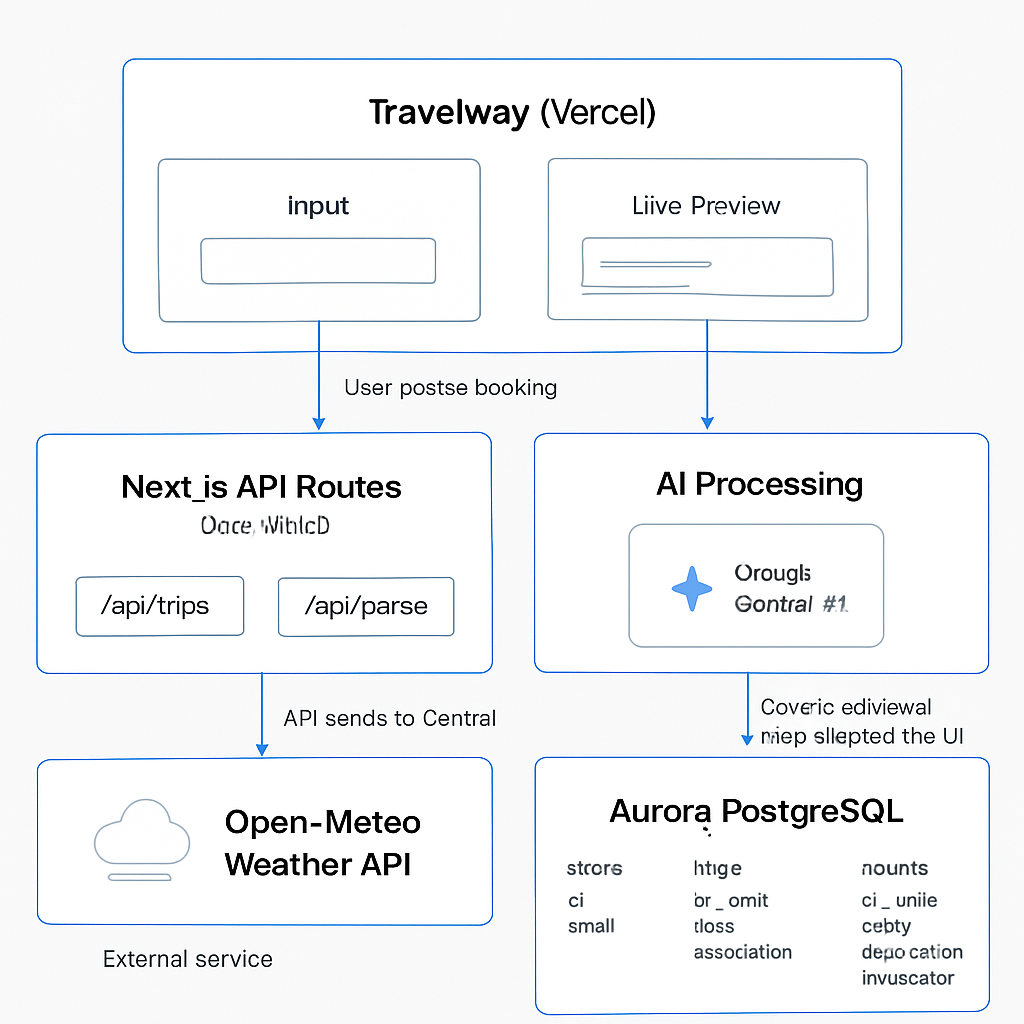
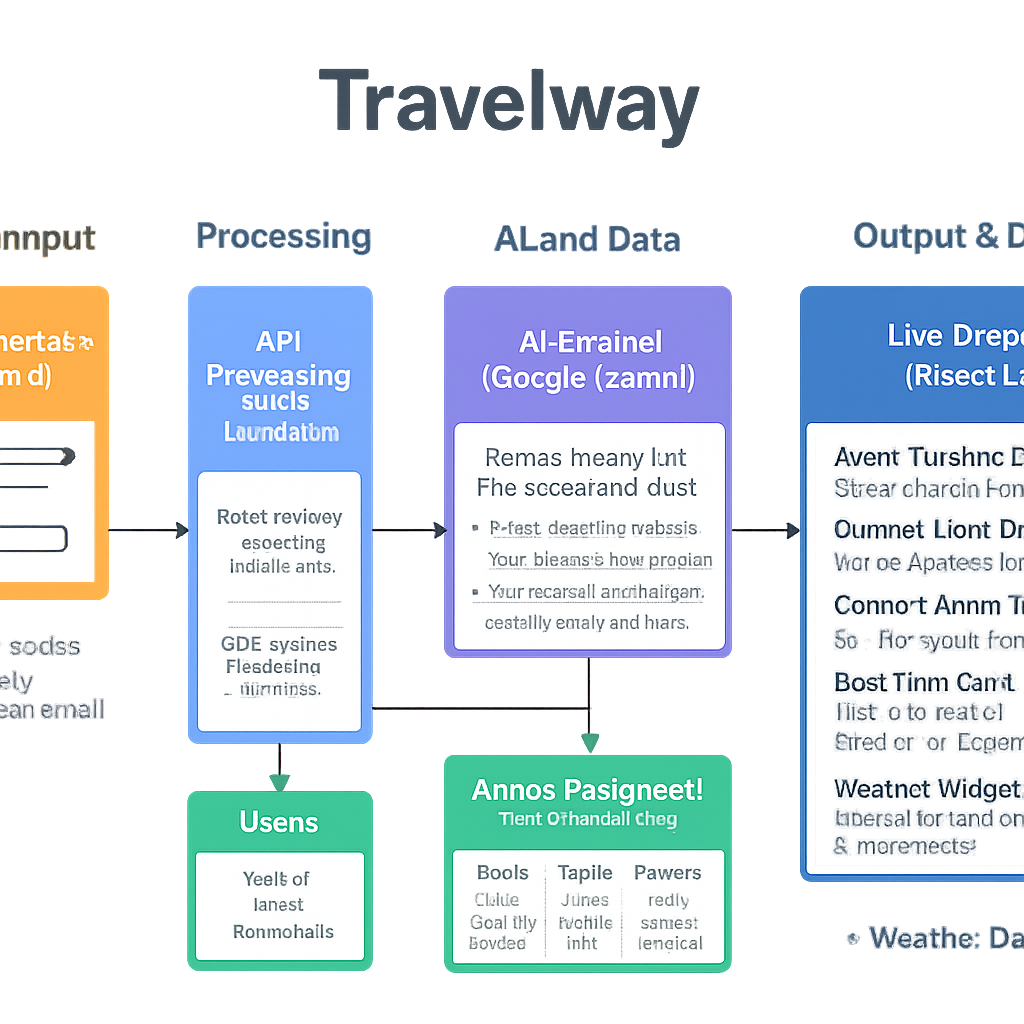
docs: improve architecture diagram with detailed flow explanation

diff --git a/ARCHITECTURE.md b/ARCHITECTURE.md
@@ -9,16 +9,43 @@ Travelway is a full-stack travel assistant built with:
 - **Database:** AWS Aurora PostgreSQL (primary backend)
 - **Weather:** Open-Meteo API (real-time conditions)
 
-## System Diagram
+## Complete Application Flow
 
 ![Travelway Architecture](/architecture.png)
 
-**System Components:**
-- **Frontend (Vercel):** Travelway UI with booking input and live preview
-- **API Layer (Next.js):** Serverless routes for trips and parsing
-- **AI Processing:** Google Gemini for parsing messy booking text
-- **Database (Aurora PostgreSQL):** Primary backend storing users, trips, and events
-- **External Services:** Open-Meteo for weather, Vercel AI SDK for Gemini integration
+### Full Data Journey (Left to Right)
+
+1. **User Input (Vercel UI)**
+   - User pastes booking confirmation email text
+   - Input form captures raw booking data
+
+2. **API Layer (Next.js Serverless)**
+   - `POST /api/parse` receives raw booking text
+   - `GET /api/trips` retrieves stored trips from database
+
+3. **AI Processing (Google Gemini)**
+   - Raw booking text sent to Gemini API via Vercel AI SDK
+   - Parses messy email into structured data:
+     - Flight numbers, departure/arrival times
+     - Gate numbers and terminals
+     - Hotel names and check-in times
+     - Activity details and locations
+     - Transit information
+
+4. **Data Storage (Aurora PostgreSQL - Primary Backend)**
+   - Parsed events stored in database
+   - Relationships maintained (user → trip → events)
+   - Indexed for fast retrieval
+
+5. **Live Display (React UI)**
+   - Event timeline strip shows visual sequence
+   - Current event auto-detected based on system time
+   - Context-aware guidance displays booking-specific details
+   - Real-time information: gates, addresses, check-in times
+
+6. **External Services**
+   - Open-Meteo Weather API provides destination weather
+   - Weather data displayed in guidance panel
 
 ## Database Schema (Aurora PostgreSQL)
 